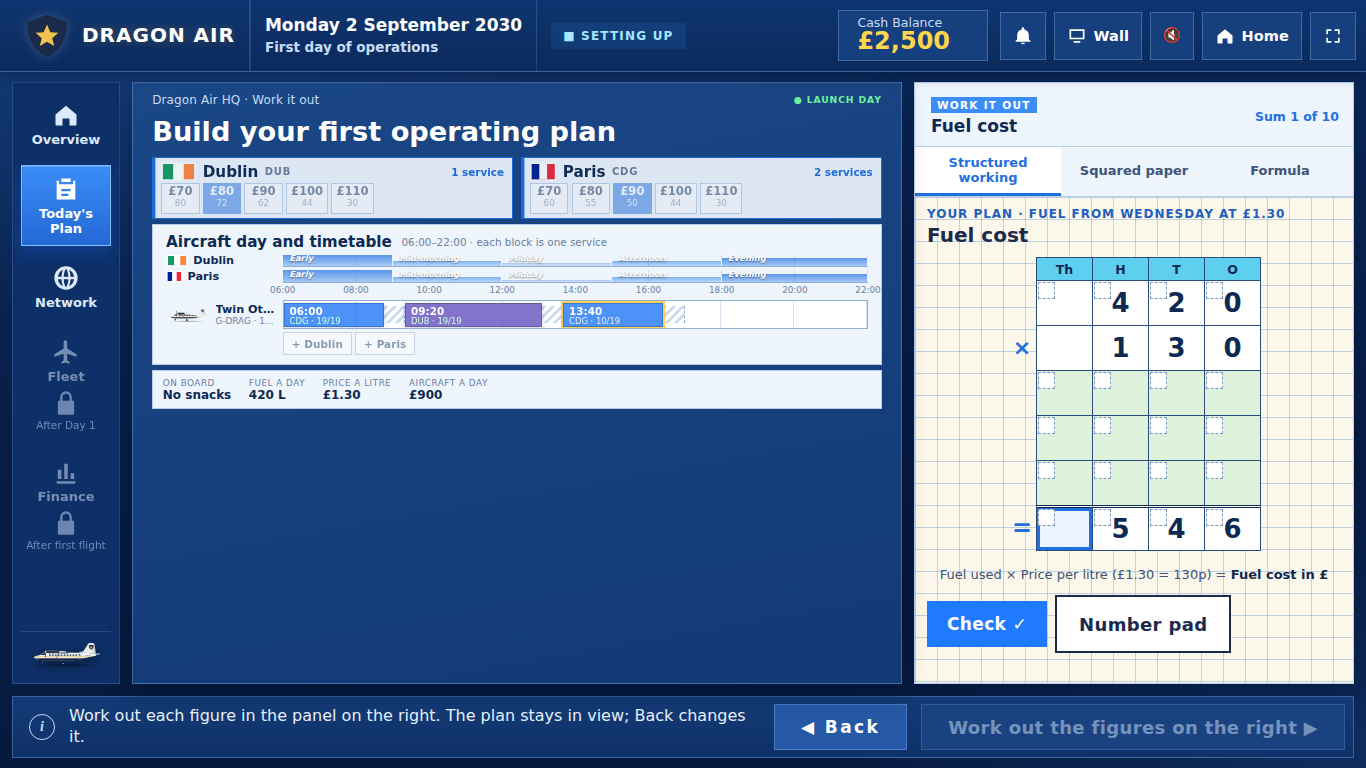
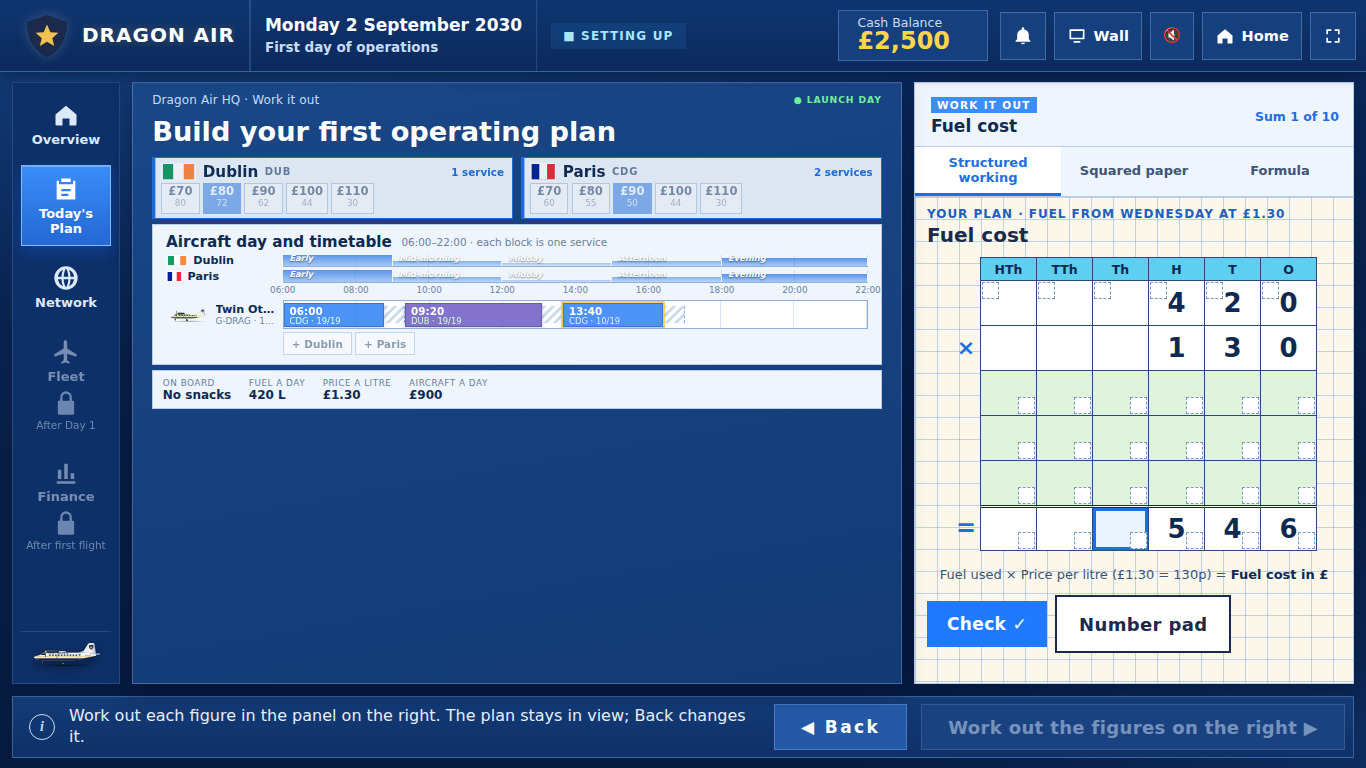
Maths Dock: cabin sales opens from its ƒ, room for the product, carry boxes at the bottom
- ƒ on Cabin sales opens the cabin sales sum at the fare on the plan (the
  table rebuilds and asks again if the fare pick changes it); only profit
  waits for the fare.
- The column grid has room for the product in the written figures
  (420 × 130p needs five columns and a carry), so the fuel sum has enough
  boxes.
- The little carry boxes sit at the bottom of the working and answer boxes;
  the top number keeps them at the top for exchanges.

Claude-Session: https://claude.ai/code/session_013x87PezhtynWHJHngTWCer

Changed region(s): [[0.7072, 0.3125, 0.9839, 0.7188]]

diff --git a/airline-opening-prototype.html b/airline-opening-prototype.html
@@ -3069,7 +3069,7 @@ td.c.enter button,.cellbtn{border-radius:8px;background:rgba(143,211,255,.12);bo
 .wkb-c.work{background:#dff3dc}.wkb-c.ans{border-top:3px double #0f2a52}
 .wkb-c > input{width:100%;height:100%;border:0;background:transparent;text-align:center;font:700 26px var(--mono);color:#0f2a52;padding:0;outline:0;caret-color:var(--pblue)}
 .wkb-c > input:focus{box-shadow:inset 0 0 0 3px var(--pblue);background:#eaf3ff}
-.wkb-c .cy{position:absolute;left:1px;top:1px;width:17px;height:17px;z-index:1}.wkb-c .cy input{width:17px;height:17px;border:1px dashed #7a9bbf;background:#fff;font:700 11px var(--mono);text-align:center;padding:0;color:#b85c00;outline:0;display:block}.wkb-c .cy input:focus{border-style:solid;border-color:var(--pblue)}
+.wkb-c .cy{position:absolute;left:1px;top:1px;width:17px;height:17px;z-index:1}.wkb-c.work .cy,.wkb-c.ans .cy{top:auto;bottom:1px;left:auto;right:1px}.wkb-c .cy input{width:17px;height:17px;border:1px dashed #7a9bbf;background:#fff;font:700 11px var(--mono);text-align:center;padding:0;color:#b85c00;outline:0;display:block}.wkb-c .cy input:focus{border-style:solid;border-color:var(--pblue)}
 .wkb-op{display:flex;align-items:center;justify-content:center;font:700 22px var(--mono);color:var(--pblue);background:transparent}.wkb-op.ans{font-size:24px}
 .wkb-hid{position:absolute!important;width:1px;height:1px;opacity:0;border:0;padding:0;margin:0}
 .wkb-cap{margin:6px 0 0;font-size:13px;color:var(--ink2);text-align:center}.wkb-cap b{color:var(--ink)}
@@ -11425,12 +11425,12 @@ function hiddenFigs(pl, W){
 }
 function openSum(kind){ S.rnd.sumWanted = kind; S.rnd.stageWanted = ({ snacks:'snack', fuelCost:'fuel', profit:'profit' })[kind] || null; UI.sumMode = 'grid'; if(step().t === 'plan'){ UI.ideaOpen = false; resetEntry(); UI.justDone = null; advance(); } else render(); }
 /* ƒ on a figure opens that figure's sum: a later stage is brought forward when nothing it needs is still to be chosen
-   (fuel never waits; snacks wait for the fare, since the passengers depend on it; profit waits for the fare) */
+   (fuel and snacks never wait; profit waits for the fare it depends on) */
 function workTables(pl){
   const W = workTablesWeek(pl); if(!(wkPlanner() && S.phase === 'setup') || !W.stage) return W;
   const want = S.rnd.stageWanted; if(!want || want === W.stage.id) return W;
   const stages = wkStagesLaunch(pl), st = stages.find(x => x.id === want), picks = S.rnd.picks || {}, fareOpen = stages.some(x => x.id === 'fare') && !picks.fare;
-  if(!st || want === 'profit' || (want === 'snack' && fareOpen)){ delete S.rnd.stageWanted; return W; }
+  if(!st || want === 'profit'){ delete S.rnd.stageWanted; return W; }   // snacks come forward at the fare on the plan: if the fare pick changes it, the table rebuilds and asks again
   if(!S.rnd.handSums) S.rnd.handSums = decideHandSums(W.L0, normPlan(pl));   // which rows are typed (the profit stage normally decides this first)
   const { t, lines } = stageTable(st, W.L0), pk = st.pick ? (picks[st.pick] || null) : null;
   if(!wkNext([t]) && (!st.pick || pk)){ delete S.rnd.stageWanted; return workTablesWeek(pl); }   // that stage is finished: back to the usual order
@@ -11661,7 +11661,8 @@ function wkGrid(t, col, row, o){
   o = o || {}; if(!wkPlanner() || o.done || o.show) return wkGridBase(t, col, row, o);
   const ops = stackRows(t, col, row), A = ops[0], B = ops[1], ua = operandUnit(t, A.id), ub = operandUnit(t, B.id), a = operandValue(t, col, A.id), b = operandValue(t, col, B.id);
   const fa = wkFig(ua, a), fb = wkFig(ub, b), op = B.op || row.op || '×', ans = col.values[row.id], fAns = wkFig(row.unit, ans), tenths = fb.tenths;
-  const W = Math.min(PLACES.length, Math.max(fa.s.length, fb.s.length, String(fAns.s).length) + 1);
+  const prod = op === '−' ? 0 : String(Math.round((+fa.s) * (+fb.s)));   // the working is done in the written figures (pence, tenths): room for that product and a carry
+  const W = Math.min(PLACES.length, Math.max(fa.s.length, fb.s.length, String(fAns.s).length, prod.length) + 1);
   const given = (s, cy) => { const d = s.padStart(W, ' ').split(''); return d.map((ch, c) => `<span class="wkb-c g">${cy ? `<small class="cy"><input maxlength="1" inputmode="numeric" aria-label="carry"></small>` : ''}<b>${ch === ' ' ? '' : ch}</b></span>`).join(''); };
   const boxes = (r, cls, cy) => Array.from({ length:W }, (_, c) => `<span class="wkb-c ${cls}">${cy ? `<small class="cy"><input maxlength="1" inputmode="numeric" data-cy="${r}|${c}" aria-label="carry"></small>` : ''}<input maxlength="1" inputmode="numeric" data-r="${r}" data-c="${c}" aria-label="${cls === 'ans' ? 'answer' : 'working'} column ${PLACES[W - 1 - c]}"></span>`).join('');
   const head = `<span class="wkb-op"></span>${Array.from({ length:W }, (_, c) => `<span class="wkb-h">${PLACES[W - 1 - c]}</span>`).join('')}`;

diff --git a/src/opening/parts/p4w_planner.js b/src/opening/parts/p4w_planner.js
@@ -145,12 +145,12 @@ function hiddenFigs(pl, W){
 }
 function openSum(kind){ S.rnd.sumWanted = kind; S.rnd.stageWanted = ({ snacks:'snack', fuelCost:'fuel', profit:'profit' })[kind] || null; UI.sumMode = 'grid'; if(step().t === 'plan'){ UI.ideaOpen = false; resetEntry(); UI.justDone = null; advance(); } else render(); }
 /* ƒ on a figure opens that figure's sum: a later stage is brought forward when nothing it needs is still to be chosen
-   (fuel never waits; snacks wait for the fare, since the passengers depend on it; profit waits for the fare) */
+   (fuel and snacks never wait; profit waits for the fare it depends on) */
 function workTables(pl){
   const W = workTablesWeek(pl); if(!(wkPlanner() && S.phase === 'setup') || !W.stage) return W;
   const want = S.rnd.stageWanted; if(!want || want === W.stage.id) return W;
   const stages = wkStagesLaunch(pl), st = stages.find(x => x.id === want), picks = S.rnd.picks || {}, fareOpen = stages.some(x => x.id === 'fare') && !picks.fare;
-  if(!st || want === 'profit' || (want === 'snack' && fareOpen)){ delete S.rnd.stageWanted; return W; }
+  if(!st || want === 'profit'){ delete S.rnd.stageWanted; return W; }   // snacks come forward at the fare on the plan: if the fare pick changes it, the table rebuilds and asks again
   if(!S.rnd.handSums) S.rnd.handSums = decideHandSums(W.L0, normPlan(pl));   // which rows are typed (the profit stage normally decides this first)
   const { t, lines } = stageTable(st, W.L0), pk = st.pick ? (picks[st.pick] || null) : null;
   if(!wkNext([t]) && (!st.pick || pk)){ delete S.rnd.stageWanted; return workTablesWeek(pl); }   // that stage is finished: back to the usual order
@@ -381,7 +381,8 @@ function wkGrid(t, col, row, o){
   o = o || {}; if(!wkPlanner() || o.done || o.show) return wkGridBase(t, col, row, o);
   const ops = stackRows(t, col, row), A = ops[0], B = ops[1], ua = operandUnit(t, A.id), ub = operandUnit(t, B.id), a = operandValue(t, col, A.id), b = operandValue(t, col, B.id);
   const fa = wkFig(ua, a), fb = wkFig(ub, b), op = B.op || row.op || '×', ans = col.values[row.id], fAns = wkFig(row.unit, ans), tenths = fb.tenths;
-  const W = Math.min(PLACES.length, Math.max(fa.s.length, fb.s.length, String(fAns.s).length) + 1);
+  const prod = op === '−' ? 0 : String(Math.round((+fa.s) * (+fb.s)));   // the working is done in the written figures (pence, tenths): room for that product and a carry
+  const W = Math.min(PLACES.length, Math.max(fa.s.length, fb.s.length, String(fAns.s).length, prod.length) + 1);
   const given = (s, cy) => { const d = s.padStart(W, ' ').split(''); return d.map((ch, c) => `<span class="wkb-c g">${cy ? `<small class="cy"><input maxlength="1" inputmode="numeric" aria-label="carry"></small>` : ''}<b>${ch === ' ' ? '' : ch}</b></span>`).join(''); };
   const boxes = (r, cls, cy) => Array.from({ length:W }, (_, c) => `<span class="wkb-c ${cls}">${cy ? `<small class="cy"><input maxlength="1" inputmode="numeric" data-cy="${r}|${c}" aria-label="carry"></small>` : ''}<input maxlength="1" inputmode="numeric" data-r="${r}" data-c="${c}" aria-label="${cls === 'ans' ? 'answer' : 'working'} column ${PLACES[W - 1 - c]}"></span>`).join('');
   const head = `<span class="wkb-op"></span>${Array.from({ length:W }, (_, c) => `<span class="wkb-h">${PLACES[W - 1 - c]}</span>`).join('')}`;

diff --git a/src/opening/parts/p1_head.html b/src/opening/parts/p1_head.html
@@ -3069,7 +3069,7 @@ td.c.enter button,.cellbtn{border-radius:8px;background:rgba(143,211,255,.12);bo
 .wkb-c.work{background:#dff3dc}.wkb-c.ans{border-top:3px double #0f2a52}
 .wkb-c > input{width:100%;height:100%;border:0;background:transparent;text-align:center;font:700 26px var(--mono);color:#0f2a52;padding:0;outline:0;caret-color:var(--pblue)}
 .wkb-c > input:focus{box-shadow:inset 0 0 0 3px var(--pblue);background:#eaf3ff}
-.wkb-c .cy{position:absolute;left:1px;top:1px;width:17px;height:17px;z-index:1}.wkb-c .cy input{width:17px;height:17px;border:1px dashed #7a9bbf;background:#fff;font:700 11px var(--mono);text-align:center;padding:0;color:#b85c00;outline:0;display:block}.wkb-c .cy input:focus{border-style:solid;border-color:var(--pblue)}
+.wkb-c .cy{position:absolute;left:1px;top:1px;width:17px;height:17px;z-index:1}.wkb-c.work .cy,.wkb-c.ans .cy{top:auto;bottom:1px;left:auto;right:1px}.wkb-c .cy input{width:17px;height:17px;border:1px dashed #7a9bbf;background:#fff;font:700 11px var(--mono);text-align:center;padding:0;color:#b85c00;outline:0;display:block}.wkb-c .cy input:focus{border-style:solid;border-color:var(--pblue)}
 .wkb-op{display:flex;align-items:center;justify-content:center;font:700 22px var(--mono);color:var(--pblue);background:transparent}.wkb-op.ans{font-size:24px}
 .wkb-hid{position:absolute!important;width:1px;height:1px;opacity:0;border:0;padding:0;margin:0}
 .wkb-cap{margin:6px 0 0;font-size:13px;color:var(--ink2);text-align:center}.wkb-cap b{color:var(--ink)}

diff --git a/docs/Workbook-v4.4-Report-Back.md b/docs/Workbook-v4.4-Report-Back.md
@@ -58,7 +58,7 @@ Built in `src/opening/parts/p4w_planner.js` with the square-geometry block at th
 
 - **Overlaps are never stored.** The brief allows temporary red overlaps with *Approve* disabled. Here the ghost turns red while it is over another block and the drop lands on the nearest free time (a toast says so); a timetable that cannot fit the operating day is refused with a toast. The plan is always a plan the aircraft can fly, so Plan Impact is never costing an impossible day.
 - **The fare chips and the on-board tiles are never locked** (12 Oct, after Bertie found the launch market's chips locking and unlocking as services were added). The launch sums weigh three fares around the fare the pupil chose; the dock's pick then confirms or changes it. A new service lands in the first free gap of the day rather than at the end of the list, so *+ Dublin* works between two Paris services.
-- **The written method is on Bertie's column template** (12 Oct): place-value headers (O, T, H, Th…), one digit a box, typed right to left as on paper (a digit fills the box and moves one left; Backspace moves right), a little carry box in the corner of every box, two or three green working rows, the answer row under a double line. ƒ on a figure opens that figure's sum: fuel can be brought forward at any time; snacks and profit wait for the fare, which the passengers depend on.
+- **The written method is on Bertie's column template** (12 Oct): place-value headers (O, T, H, Th…), one digit a box, typed right to left as on paper (a digit fills the box and moves one left; Backspace moves right), a little carry box in the corner of every box, two or three green working rows, the answer row under a double line. ƒ on a figure opens that figure's sum: fuel and cabin sales can be brought forward at any time (cabin sales at the fare on the plan; if the fare pick changes it, the sum is asked again); profit waits for the fare. The grid has room for the product in the written figures (420 × 130p needs five columns and a carry). The little carry boxes sit at the bottom of the working and answer boxes, at the top of the top number for exchanges.
 - **The plan is read-only while the dock is open.** The dock keeps the plan in view, as asked; changing it means *Back*, so the figures being worked out cannot change under the pupil.
 - **Monday's fuel order is automatic**: the litres the week needs at the week's price, capped by the tank and the cash reserve, placed when operations start. The pupil costs the fuel and never chooses an amount.
 - **The second route's tickets on Launch Day.** The launch sums are tickets at the three fares of the route with most services (the market), then one × for each other route in the plan, then profit, snacks and fuel.
